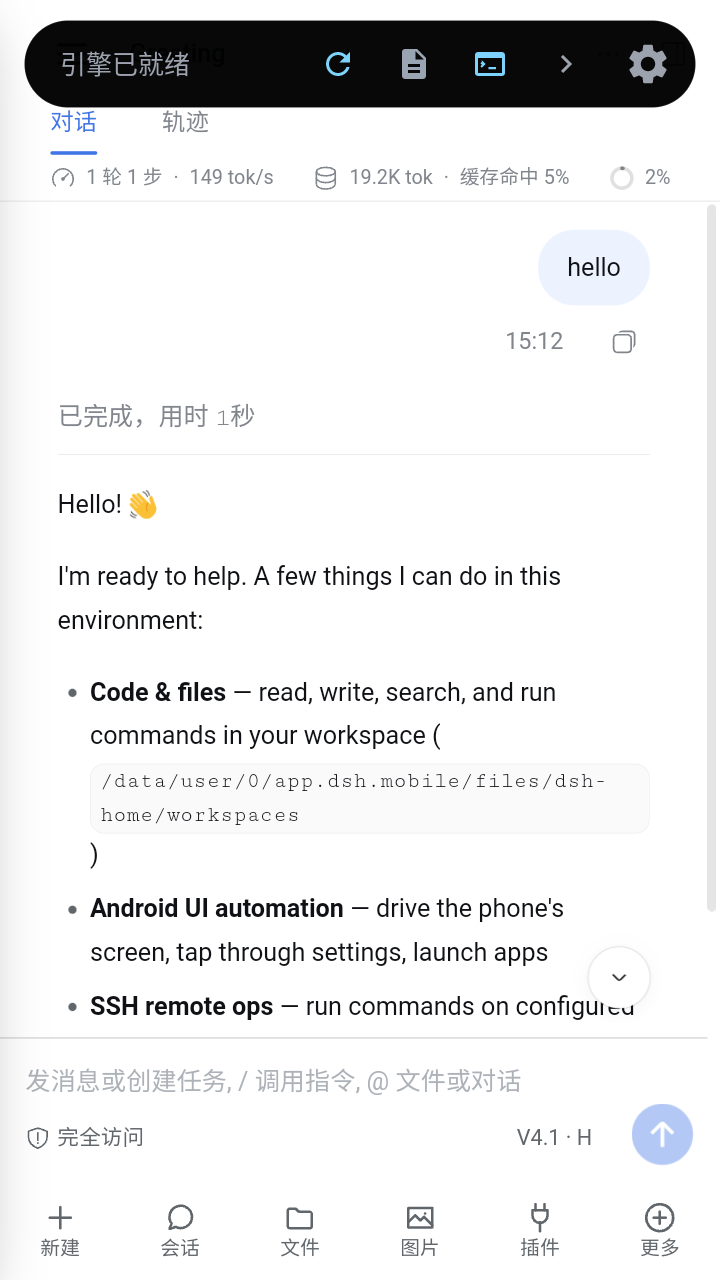
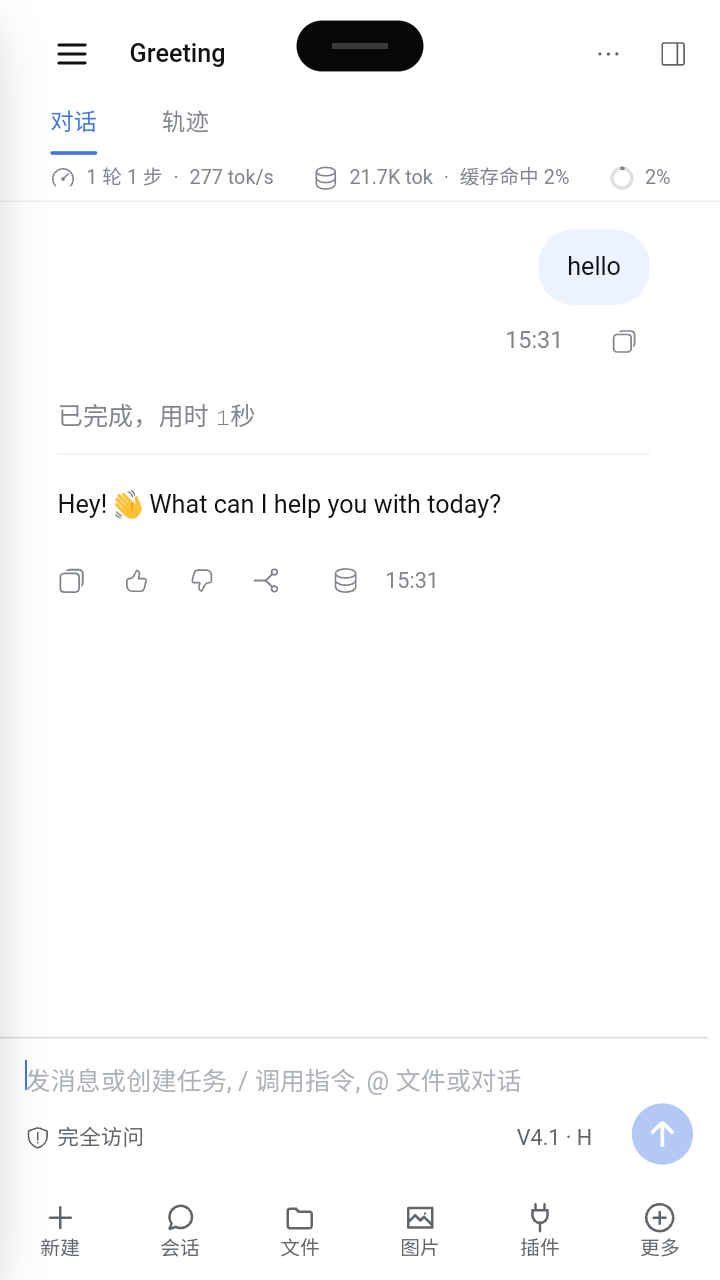
docs: 重拍截图，先收起宿主顶部黑色悬浮条
截图前统一点击宿主「引擎已就绪」悬浮条右侧 > 将其收起（顶部中央仅留收起把手的黑色小条），页面顶栏 ☰、标题与右上工具不再被遮挡；11 张截图全部在收起状态下重拍，并逐张 OCR 确认不再出现「引擎已就绪」。README 与实施计划同步更新说明。

diff --git a/docs/mobile-layout-plan.md b/docs/mobile-layout-plan.md
@@ -336,7 +336,7 @@ mobile-open --(遮罩 / Esc / 左滑 / 选中项)--> mobile-closed
 
 ## 11. 界面截图
 
-截图环境：插件 0.5.12，MuMu 模拟器物理 720×1280、dpr2、页面缩放 0.9（CSS 视口 400×711）。图片存放在 [assets/screens](assets/screens)，与第 5 章各小节一一对应。整机截图顶部深色圆角条为宿主（DSH 手机端）的「引擎已就绪」悬浮状态条，会压住页面最上缘；面板页的浮动 ☰ 因此只露出左下部分，属宿主浮层遮挡，不是插件定位错误。
+截图环境：插件 0.5.12，MuMu 模拟器物理 720×1280、dpr2、页面缩放 0.9（CSS 视口 400×711）。图片存放在 [assets/screens](assets/screens)，与第 5 章各小节一一对应。截图前已用宿主（DSH 手机端）「引擎已就绪」悬浮条右侧的 `>` 将其收起，顶部中央残留的小黑条为其收起把手；因此各面板页左上角的浮动 ☰、页面标题与右上工具均完整可见。
 
 | 截图 | 对应规格 | 说明 |
 |---|---|---|
